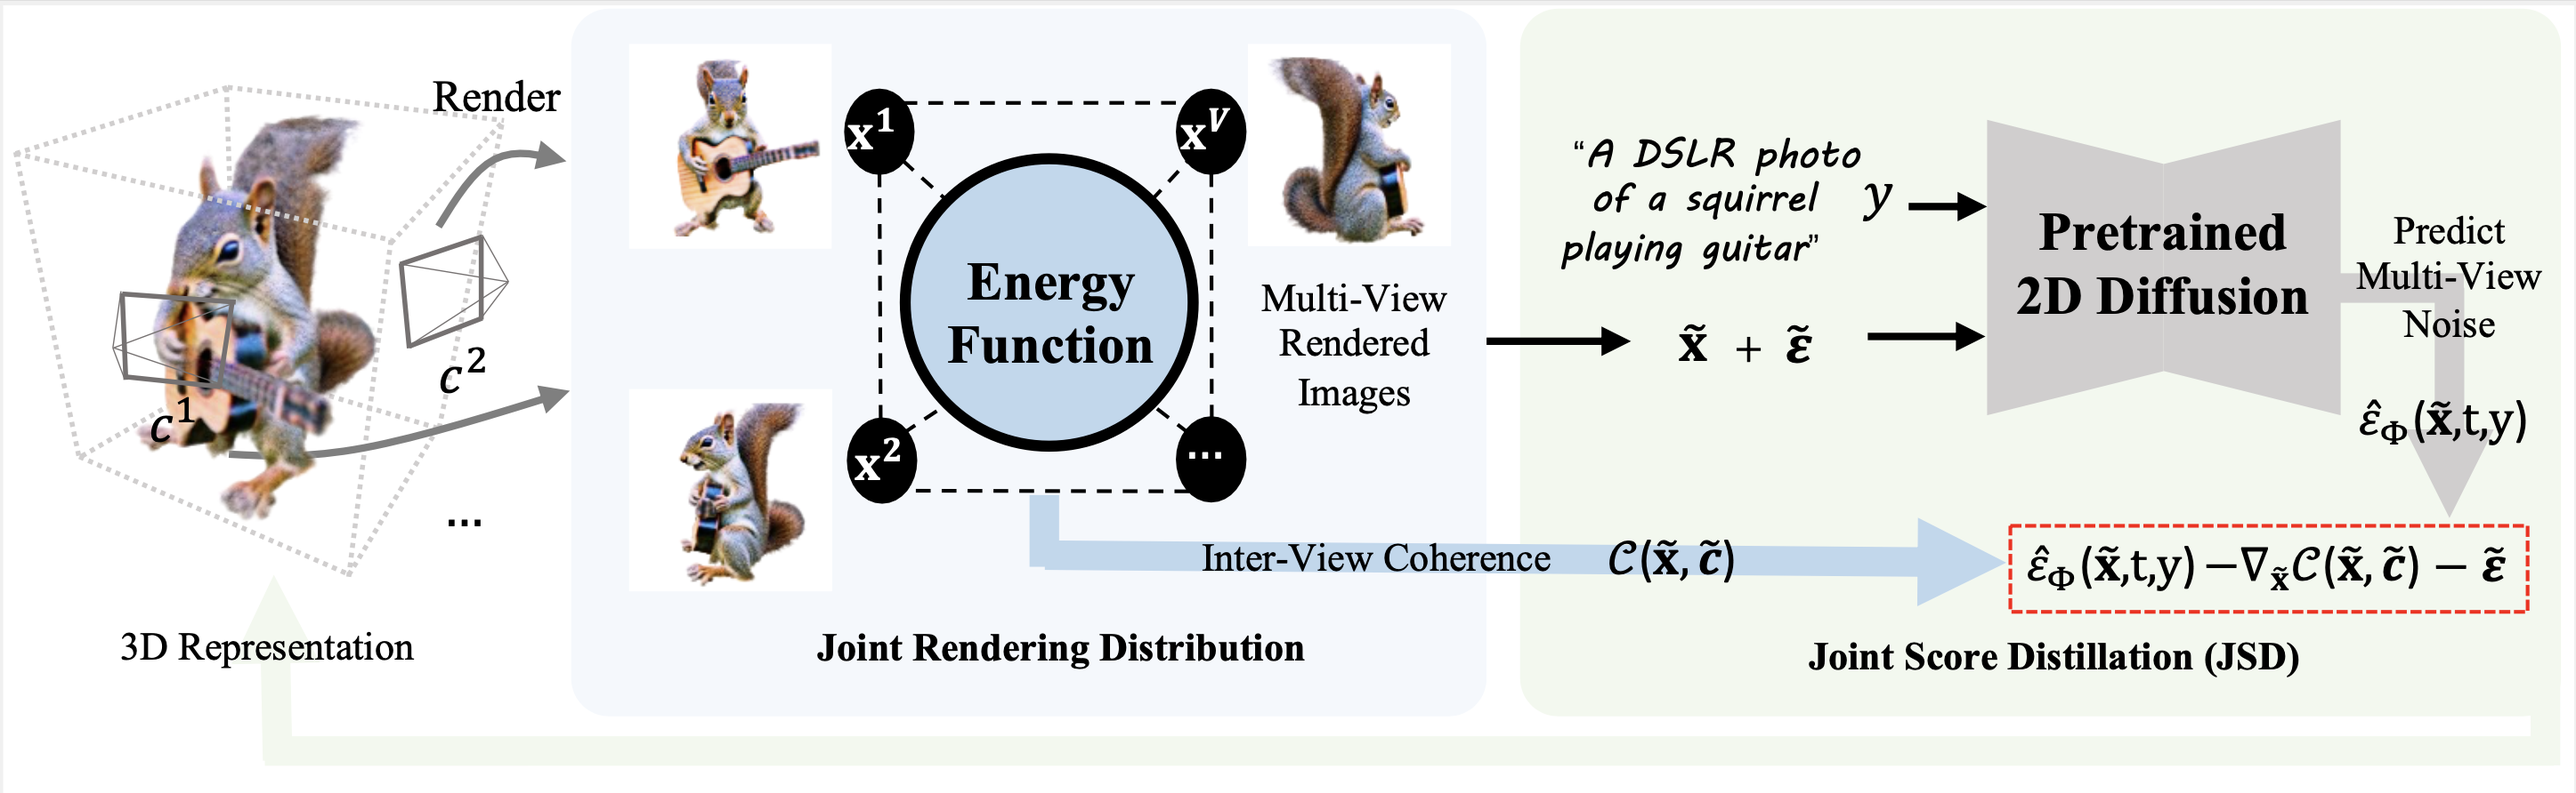
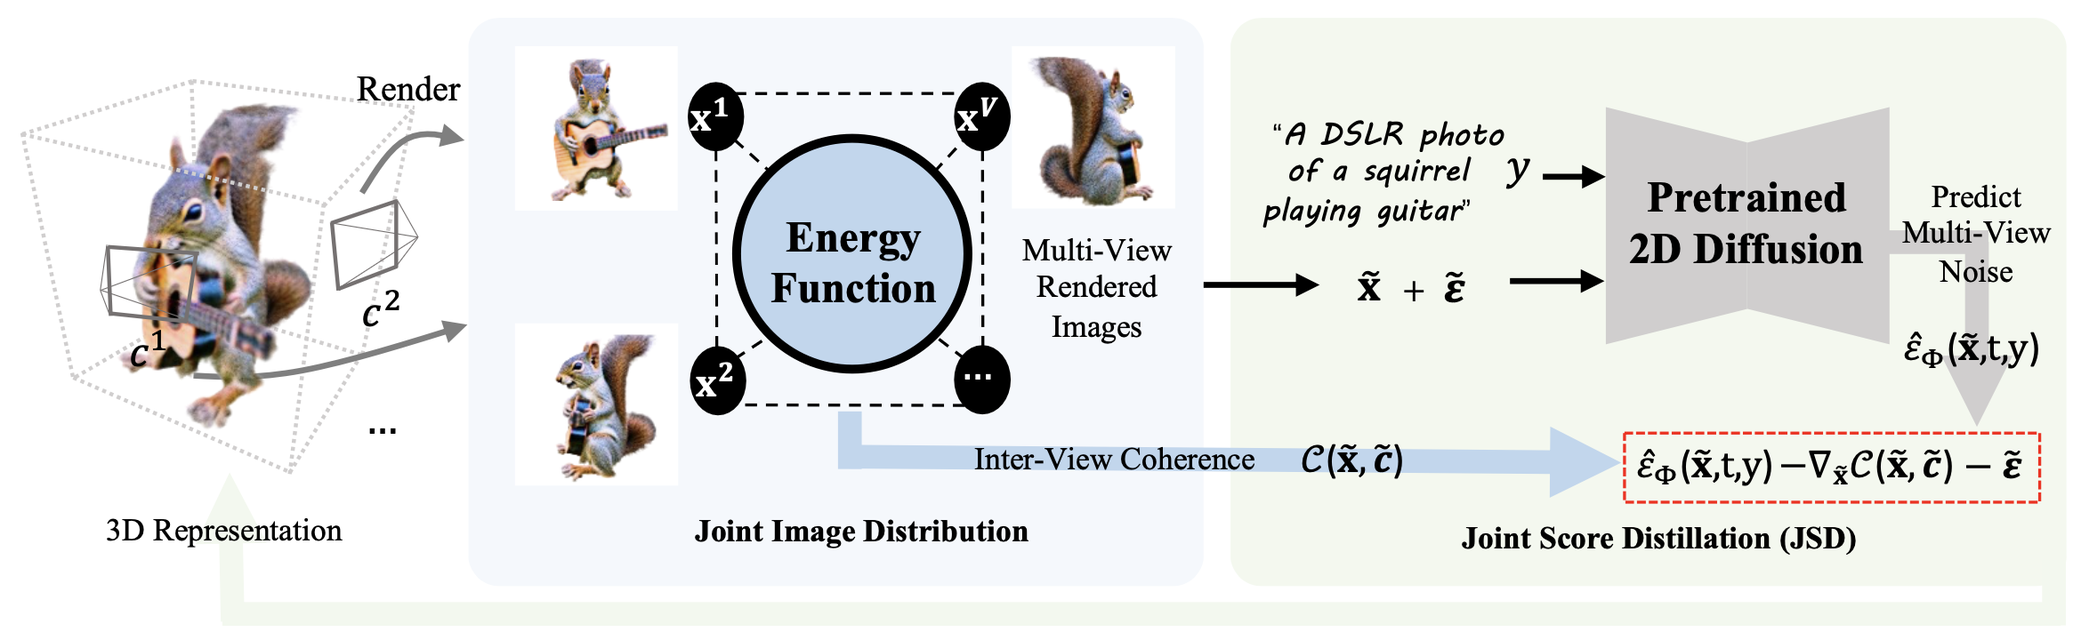
update

diff --git a/index.html b/index.html
@@ -101,13 +101,12 @@
                 </p>
                 <p>
                     In this work, we propose Joint Score Distillation (JSD), a new paradigm that ensures coherent 3D generations. Specifically,
-                    we model the joint rendering distribution, which introduces an energy function to capture the coherence among rendered views.
-                    We then derive the joint score distillation on multiple rendered views, as opposed to a single view in SDS. In addition,
-                    we propose an efficient yet effective binary classification model as an energy function, along with other universal
-                    view-aware models, demonstrating compatibility with JSD.
+                    we model the joint rendering distribution, which introduces an energy function to capture the coherence among denoised images from the diffusion model.
+                    We then derive the joint score distillation on multiple rendered views of the 3D representation, as opposed to a single view in SDS. In addition,
+                    we we instantiate three universal view-aware models as energy functions, demonstrating compatibility with JSD.
                 </p>
                 <p>
-                    Empirically, JSD significantly mitigates the 3D inconsistency problem in SDS by a 70% drop in Janus rate,
+                    Empirically, JSD significantly mitigates the 3D inconsistency problem in SDS,
                     while maintaining text congruence. Moreover, we introduce the Geometry Fading scheme and Classifier-Free Guidance (CFG)
                     Switching strategy to enhance generative details. Our framework, JointDreamer, establishes a new benchmark in
                     text-to-3D generation, achieving outstanding results with an 88.5% CLIP R-Precision and 27.7% CLIP Score.
@@ -289,6 +288,12 @@
             </video>
             <p class="compare-caption">a zoomed out DSLR photo of a bear playing electric bass</p>
         </div>
+        <div class="row captioned_videos" style="margin-top: 0px; margin-bottom: 0px ;">
+            <video class="video lazy" loop playsinline autoplay muted style="width: 100%">
+                <source data-src="static/comparison/Woodies_talking_with_each_other.mp4" type="video/mp4">
+            </video>
+            <p class="compare-caption">Woodies talking with each other, Toy Story, Anime style, more details, 8K, HD</p>
+        </div>
 
         <!-- <div class="col-sm-4 my-auto center" style="margin-left: auto; margin-right: auto;">
             <a href="test.html" class="btn btn-primary btn-lg btn-search">
@@ -298,7 +303,7 @@
     </div>
 
 
-    <hr class="divider" />
+    <!-- <hr class="divider" />
     <div class="container" style="max-width: 768px;">
         <div class="row">
             <div class="col-sm-12">
@@ -338,7 +343,7 @@
             </video>
             <p class="compare-caption">a blue jay standing on a large basket of rainbow macarons.</p>
         </div>
-    </div>
+    </div> -->
 
 
 
